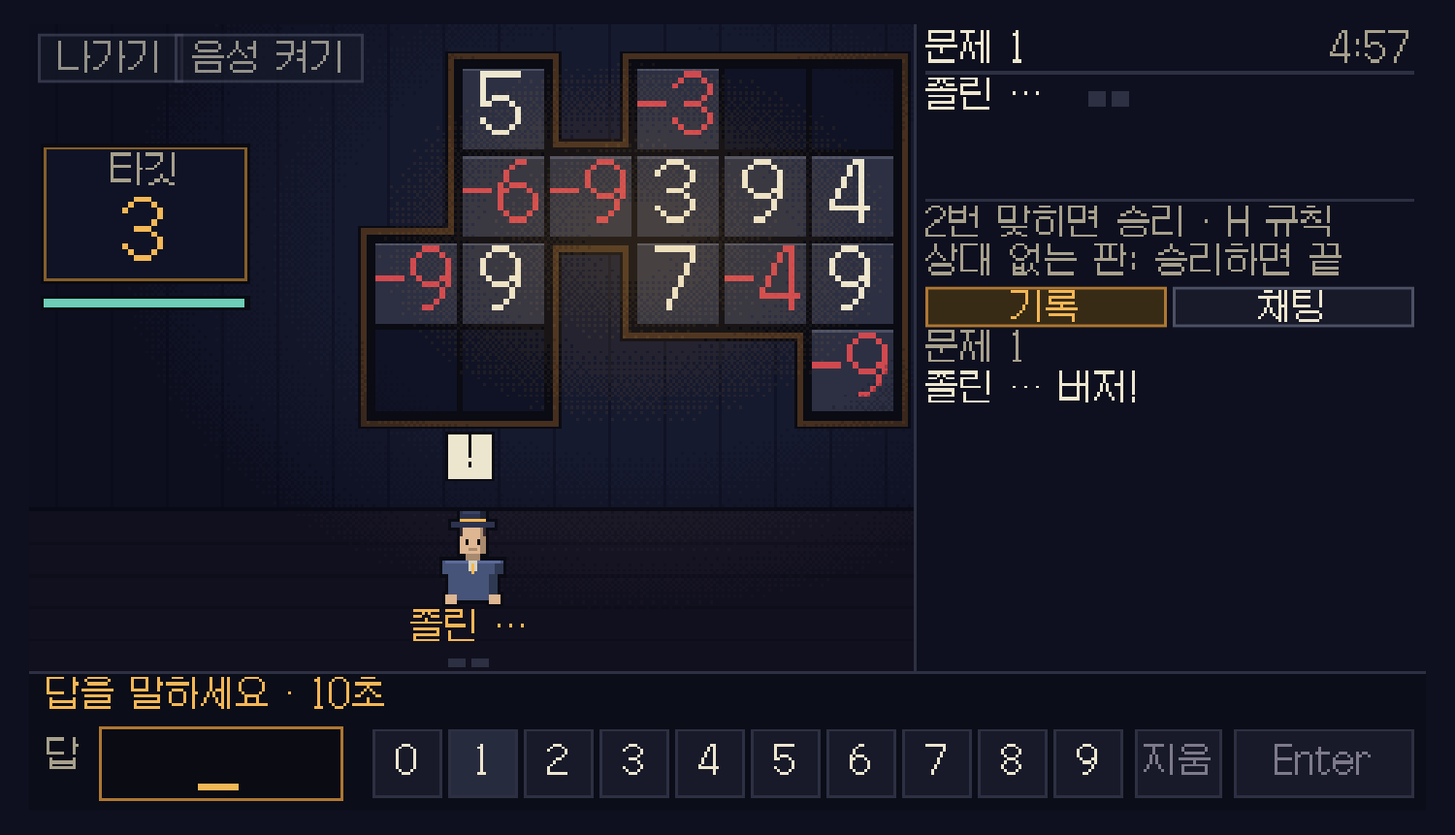
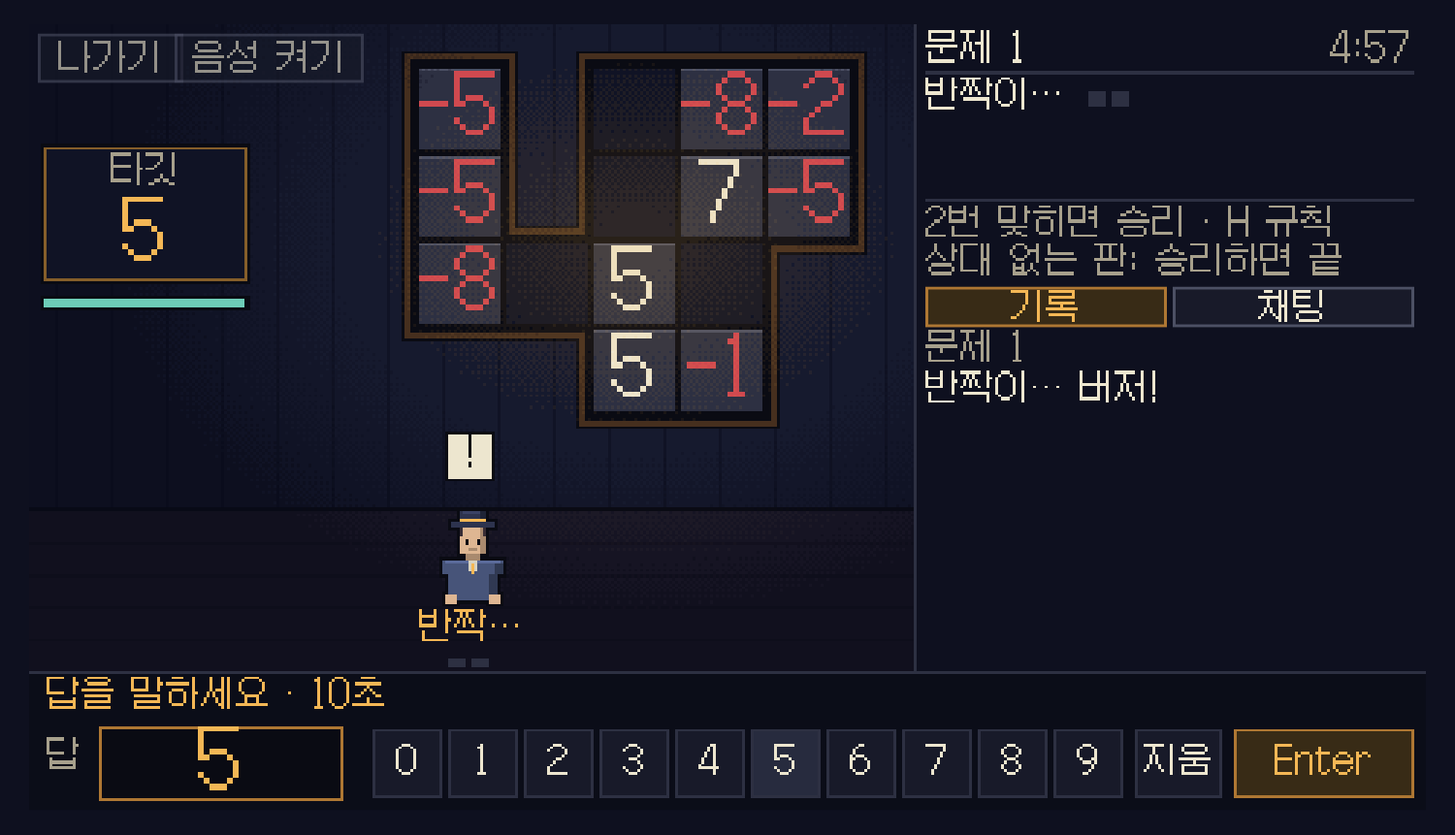
fix: what a review of the holds found: the pad's first figure, results under the rules sheet, a stale line, an early press that cannot be chosen
A read of e2bb37e and ca9edd7 found no hold that locks a player out, and
these, which are fixed:

- 네모 세기: the pad's hold of 0.35 s covered the whole pad, so a player
  who buzzed with the answer ready lost its first figure without a sound.
  The hold is now only on the place where the buzzer was ("0" and "1").
- Six games: a game that ended under the rules sheet had spent its 0.8 s
  by the time the sheet was closed, and the second press of the double
  press that closed it landed on the results' buttons. The 0.8 s is
  counted from the closing of the sheet (러시안 룰렛 did so already).
- 미스터리 거래소: the line "앞의 것을 보내는 중…" stayed up to 0.8 s
  after a refusal, a new round or the end. It is taken down with the move.
- 러시안 룰렛: a move pressed too soon is kept only where it can be
  chosen: one there are no credits for is told so at once, and none is
  kept (nor lit) while a swap is on its way up.

Left as they are: the sum over a stand of 무거운 13 takes no press for a
chip of one colour and says nothing; the swap takes no Enter in its first
0.8 s and says nothing.

Checked: type check; on the local server, alone in 네모 세기: the
buzzer's right edge pressed twice and "5" pressed 0.06 s later typed 5
and nothing else (ego-browser, Chromium, mouse events; the evidence
picture is replaced). Also added: the deployed check of ca9edd7 (큐브
세기 alone to the clock's end: presses within 0.3 s of the results did
nothing, one a second later went to the waiting room). Not looked at on
[…]

diff --git a/src/client/games/count-rectangles/screen.ts b/src/client/games/count-rectangles/screen.ts
@@ -454,6 +454,8 @@ export function createRectScreen(canvas: HTMLCanvasElement, handlers: RectHandle
     if (help && (pressed("Escape", "Enter") || clicks.length > 0)) help = false;
     // the page's own buttons lie over the frame: they give way while the sheet is up
     if (help !== was) handlers.covered(help);
+    // (results that were under the sheet are up from now: their buttons wait as they do when a game ends in sight)
+    if (was && !help && latest.view.phase === "ended") endedAt = time;
     if (help || was) return;
     const view = latest.view;
     if (view.phase === "ended") {
@@ -536,11 +538,14 @@ export function createRectScreen(canvas: HTMLCanvasElement, handlers: RectHandle
     const most = `${latest.rules.maxSaid}`.length;
     // the pad is on screen only once the answer is this player's; its buttons count as the keys they stand for
     const pad: string[] = [];
-    // (not in its first moment: the pad comes up where the buzzer was, and a second press of the buzzer is no figure)
-    if (toAnswer && floorAt !== null && time - floorAt >= PAD_HOLD) {
-      for (let digit = 0; digit <= 9; digit++) if (clicked(digitRect(digit), PAD_REACH)) pad.push(`Digit${digit}`);
-      if (clicked(ERASE_RECT, PAD_REACH)) pad.push("Backspace");
-      if (clicked(SAY_RECT, PAD_REACH)) pad.push("Enter");
+    if (toAnswer) {
+      // In its first moment a press where the buzzer was is the buzzer's second press, not a figure (`PAD_HOLD`).
+      // The rest of the pad takes a press at once: someone who buzzed with the answer ready types it straight away.
+      const early = floorAt === null || time - floorAt < PAD_HOLD;
+      const onPad = (rect: readonly [number, number, number, number]): boolean => clicks.some((p) => hits(p, rect, PAD_REACH) && !(early && hits(p, BUZZ_RECT)));
+      for (let digit = 0; digit <= 9; digit++) if (onPad(digitRect(digit))) pad.push(`Digit${digit}`);
+      if (onPad(ERASE_RECT)) pad.push("Backspace");
+      if (onPad(SAY_RECT)) pad.push("Enter");
     }
     const result = typeAnswer(typed, [...typing, ...pad], most);
     if (result.typed.length > typed.length || (result.typed !== typed && result.typed.length === typed.length)) sfx.move();

diff --git a/src/client/games/mystery-stock-market/screen.ts b/src/client/games/mystery-stock-market/screen.ts
@@ -379,12 +379,14 @@ export function createMarketScreen(canvas: HTMLCanvasElement, handlers: MarketHa
       endedAt = time;
       mode = "trade";
       sent = null;
+      hurriedAt = null;
     }
     if (before !== null && !fresh) {
       if (before.view.round !== message.view.round) {
         // what was being asked belonged to the round that is over
         mode = "trade";
         sent = null;
+        hurriedAt = null;
       } else if (sent !== null && took(sent, before, message)) {
         // one drawn ahead was said as it was made
         if (ahead === null) sayDone(sent, message.rules);
@@ -483,6 +485,8 @@ export function createMarketScreen(canvas: HTMLCanvasElement, handlers: MarketHa
     if (help && (pressed("Escape", "Enter") || clicks.length > 0)) help = false;
     // the page's own buttons lie over the frame: they give way while the sheet is up
     if (help !== was) handlers.covered(help);
+    // (results that were under the sheet are up from now: their buttons wait as they do when a game ends in sight)
+    if (was && !help && latest.view.phase === "ended") endedAt = time;
     if (help || was) return;
 
     const view = latest.view;
@@ -1136,6 +1140,7 @@ export function createMarketScreen(canvas: HTMLCanvasElement, handlers: MarketHa
     refused(reason: string): void {
       starting = false;
       sent = null;
+      hurriedAt = null;
       takeBack();
       mode = "trade";
       say(WORDS.refused[reason] ?? WORDS.refusedOther);

diff --git a/src/client/game/table.ts b/src/client/game/table.ts
@@ -818,9 +818,17 @@ export function createTable(canvas: HTMLCanvasElement, handlers: TableHandlers):
       sel = null;
       // The turn is mine by the room's word, and the move before it is still being shown: a move pressed now is not lost.
       // It is answered at the press (its button lights, with the sound of a choice), so that it is not pressed again.
-      if (picked !== null && waits() && !pending && !offline) {
-        early = { act: picked, at: time, moves: truth?.view.history.length ?? -1 };
-        sfx.pick();
+      // (Only a move that can be chosen when the screen has caught up: not over a swap that is on its way up, and
+      // one there are no credits for is told so now, not a second later.)
+      if (picked !== null && waits() && !pending && !offline && truth !== null && truth.view.phase === "turn") {
+        if ((truth.view.credits ?? 0) < costs(truth.rules)[picked]) {
+          early = null;
+          say(WORDS.refused["not-enough-credits"]);
+          sfx.deny();
+        } else {
+          early = { act: picked, at: time, moves: truth.view.history.length };
+          sfx.pick();
+        }
       } else if (!waits()) early = null;
       return;
     }

diff --git a/src/client/games/lay-the-grass/screen.ts b/src/client/games/lay-the-grass/screen.ts
@@ -554,6 +554,8 @@ export function createGrassScreen(canvas: HTMLCanvasElement, handlers: GrassHand
     else if (sheet !== "none" && (pressed("Escape", "Enter") || clicks.length > 0)) sheet = "none";
     // the page's own buttons lie over the frame: they give way while a sheet is up
     if ((sheet !== "none") !== (was !== "none")) handlers.covered(sheet !== "none");
+    // (results that were under the sheet are up from now: their buttons wait as they do when a game ends in sight)
+    if (was !== "none" && sheet === "none" && latest.view.phase === "ended") endedAt = time;
     if (sheet !== "none" || was !== "none") return;
 
     const view = latest.view;

diff --git a/src/client/games/count-cubes/screen.ts b/src/client/games/count-cubes/screen.ts
@@ -305,6 +305,8 @@ export function createCubesScreen(canvas: HTMLCanvasElement, handlers: CubesHand
     if (help && (pressed("Escape", "Enter") || clicks.length > 0)) help = false;
     // the page's own buttons lie over the frame: they give way while the sheet is up
     if (help !== was) handlers.covered(help);
+    // (results that were under the sheet are up from now: their buttons wait as they do when a game ends in sight)
+    if (was && !help && latest.view.phase === "ended") endedAt = time;
     if (help || was) return;
 
     // Turning the solid is looking, not playing: it is there for someone watching and after the game too.

diff --git a/src/client/games/memory-poker/screen.ts b/src/client/games/memory-poker/screen.ts
@@ -328,6 +328,8 @@ export function createPokerScreen(canvas: HTMLCanvasElement, handlers: PokerHand
     if (help && (pressed("Escape", "Enter") || clicks.length > 0)) help = false;
     // the page's own buttons lie over the frame: they give way while the sheet is up
     if (help !== was) handlers.covered(help);
+    // (results that were under the sheet are up from now: their buttons wait as they do when a game ends in sight)
+    if (was && !help && latest.view.phase === "ended") endedAt = time;
     if (help || was) return;
 
     const view = latest.view;

diff --git a/src/client/games/under-thirteen/screen.ts b/src/client/games/under-thirteen/screen.ts
@@ -464,6 +464,8 @@ export function createUnderScreen(canvas: HTMLCanvasElement, handlers: UnderHand
     if (help && (pressed("Escape", "Enter") || clicks.length > 0)) help = false;
     // the page's own buttons lie over the frame: they give way while the sheet is up
     if (help !== was) handlers.covered(help);
+    // (results that were under the sheet are up from now: their buttons wait as they do when a game ends in sight)
+    if (was && !help && latest.view.phase === "ended") endedAt = time;
     if (help || was) return;
 
     const view = latest.view;

diff --git a/design/game-brief.md b/design/game-brief.md
@@ -99,7 +99,7 @@
 - [x] 러시안 룰렛에서 너무 일찍 누른 수 (2026-11-14, 게임 중 「눌렀는데 답이 없는 곳」 조사): 방은 앞사람의 수를 알리는 그 말로 다음 차례도 알리고, 페이지는 그 말에 차례를 부른다(소리·진동). 화면은 앞사람의 수를 0.3~1초쯤 보여 주는 중이라 그사이 누른 1~5(와 버튼)는 아무 답 없이 버려졌다. 이제 방의 말로 내 차례인데 화면이 아직 따라오지 못한 동안 누른 수는 1.5초까지 들고 있다가, 화면이 따라온 첫 순간에 고른 것으로 친다(고르기만 한다: 확정은 전처럼 Enter). 조작을 얻어 맞바꿔야 하는 차례에는 쓰지 않고, 1.5초보다 오래된 누름은 버린다(봇 다섯의 수를 한꺼번에 보여 줄 때처럼 길게 밀린 화면에서 한참 전의 누름이 튀어나오지 않게) *(guessed: 1.5초는 만든 쪽이 고름, 가장 긴 수 보여 주기 1.05초와 자리 뽑기 1.2초보다 조금 김)* 검토 뒤 고침(같은 날): 들고 있는 동안 그 버튼에 불이 들어오고 고르는 소리가 난다(답이 없어 다시 누르지 않게). 그렇게 고른 수는 손가락으로 불 켜진 버튼을 다시 눌러 확정하기까지 1초를 기다린다(보통은 0.35초: 일찍 누른 사람이 답이 없는 줄 알고 한 번 더 누른 것이 수를 내 버리지 않게). 들고 있던 누름은 그때까지 방이 알린 수의 개수가 같을 때만 쓴다(탭을 가렸다 돌아오면 화면의 시계가 멈춰 있어, 한 바퀴 돈 뒤의 차례에 옛 누름이 튀어나올 수 있었다).
 - [x] 무거운 13에서 색이 정해진 칩일 때 받침대 누르기 (2026-11-14, 같은 조사): 레인보우 칩이면 받침대(와 1~3)를 눌러 놓는데, 색이 정해진 칩이면 받침대는 화면에서 가장 큰 것인데도 눌러서 아무 답이 없었고 「놓기」 버튼과 Enter만 먹었다. 이제 그 칩의 받침대(나 그 번호)를 누르면 「놓기」와 같이 놓고, 다른 받침대나 번호를 누르면 「이 칩의 바위는 초록 받침대에만 놓을 수 있습니다」와 거절음이 난다 *(guessed: 제 받침대를 누르면 바로 놓는 것은 레인보우 칩과 같게 한 것으로, 무너지는 자리여도 묻지 않는다(바의 붉은 줄이 미리 말함); 영어 "With this chip the rock goes on Green only"는 평이한 번역)* 검토 뒤 고침(같은 날): 색이 정해진 칩은 받침대의 합계 숫자 아래(위에서 26픽셀 밑)부터만 눌러 놓는다. 합계 숫자는 「나가기」·음성 버튼 바로 아래 4픽셀이라, 그 버튼을 누르려던 손가락이 바위를 놓지 않게 했다. 레인보우 칩의 받침대 누르기는 전과 같다.
 - [x] 미스터리 거래소에서 앞의 것이 가는 중에 누른 것 (2026-11-14, 같은 조사): 주문이 방에 갔다 오는 동안(배포본에서 한국 기준 0.15~0.9초) 누른 것은 말없이 버려졌다: 「매수」를 빠르게 두 번 누르면 한 번만 사졌고, 그사이 연 물음(시크릿·피스·마침)에 답하면 답은 가지 않은 채 물음만 사라졌다. 이제 그런 누름에는 「앞의 것을 보내는 중입니다 · 잠시 뒤 다시 누르세요」와 거절음이 나고, 답이 가지 않은 물음은 그대로 떠 있어 다시 답할 수 있다. 누름을 쌓아 두었다가 이어서 보내지는 않는다(돈이 오가는 주문이라, 본 값과 다른 값에 두 번째가 나가지 않게) *(guessed: 문장은 만든 쪽이 고름; 영어 "Still sending the last one · press again in a moment"는 평이한 번역)* 검토 뒤 고침(같은 날): 그 문장은 잠깐 뜨는 알림이 아니라 바의 줄로, 앞의 것이 돌아올 때까지(짧으면 0.8초까지) 뜨고 나면 「○○ 1주 매수」 같은 앞의 알림이 다시 보인다(전에는 2.5초 동안 남아 산 것을 가렸다). 가는 중에는 물음(시크릿·피스·마침)도 열지 않는다(바가 그리지 않는 물음이 보이지 않게 답해지던 것). 물음의 버튼은 물음이 뜬 지 0.35초 뒤부터 누를 수 있다: 「피스」 자리가 「현금으로」, 「마침」 자리가 「취소」라서 두 번 누르면 둘째가 답이 되던 것을 막음(키는 바로 받음).
-- [x] 두 번 누름의 둘째가 다른 것에 닿던 곳 (2026-11-14, 일곱 화면을 읽은 조사): 결과 화면의 「새 판」·「대기실로」는 판이 끝나는 순간 게임의 버튼(큐브 세기의 「입력」·「지움」·「0」, 잔디 깔기의 「놓기」, 네모 세기의 「말하기」·「지움」)이 있던 자리에 뜨고, 키만 1.5초를 기다렸지 누름은 바로 받았다. 혼자 하는 큐브 세기에서 「입력」을 두 번 누르면 둘째가 결과를 치우거나(대기실로) 새 판을 시작했다. 이제 두 버튼은 결과가 뜬 지 0.8초 뒤부터 눌린다(일곱 게임 모두, `RESULTS_PRESS_HOLD`; Esc는 전처럼 바로). 같이 고친 것: 「나가기」의 둘째 누름은 첫 누름 0.35초 뒤부터 센다(두 번 누름 한 번에 방을 나가던 것); 러시안 룰렛의 맞바꾸기는 뜬 지 0.8초 뒤부터 확정된다(크레딧을 넣은 「확인」 자리에 맞바꾸기의 「확인」이 저절로 뜸); 네모 세기의 숫자판은 답할 차례가 된 지 0.35초 뒤부터 눌린다(버저 오른쪽 끝이 「0」·「1」 자리). 그대로 둔 것: 가리키고 한 번 더 눌러 정하는 곳들(무거운 13의 자리, 잔디 깔기의 카드·타일·칸, 네모 세기의 셋째 선택)은 둘째 누름이 방금 가리킨 바로 그것을 정하므로 둠 *(guessed: 0.8초·0.35초는 만든 쪽이 고름; 결과 버튼이 눌리지 않는 0.8초 동안 따로 흐리게 그리지는 않음)*
+- [x] 두 번 누름의 둘째가 다른 것에 닿던 곳 (2026-11-14, 일곱 화면을 읽은 조사): 결과 화면의 「새 판」·「대기실로」는 판이 끝나는 순간 게임의 버튼(큐브 세기의 「입력」·「지움」·「0」, 잔디 깔기의 「놓기」, 네모 세기의 「말하기」·「지움」)이 있던 자리에 뜨고, 키만 1.5초를 기다렸지 누름은 바로 받았다. 혼자 하는 큐브 세기에서 「입력」을 두 번 누르면 둘째가 결과를 치우거나(대기실로) 새 판을 시작했다. 이제 두 버튼은 결과가 뜬 지 0.8초 뒤부터 눌린다(일곱 게임 모두, `RESULTS_PRESS_HOLD`; Esc는 전처럼 바로). 같이 고친 것: 「나가기」의 둘째 누름은 첫 누름 0.35초 뒤부터 센다(두 번 누름 한 번에 방을 나가던 것); 러시안 룰렛의 맞바꾸기는 뜬 지 0.8초 뒤부터 확정된다(크레딧을 넣은 「확인」 자리에 맞바꾸기의 「확인」이 저절로 뜸); 네모 세기의 숫자판은 답할 차례가 된 지 0.35초 뒤부터 눌린다(버저 오른쪽 끝이 「0」·「1」 자리). 그대로 둔 것: 가리키고 한 번 더 눌러 정하는 곳들(무거운 13의 자리, 잔디 깔기의 카드·타일·칸, 네모 세기의 셋째 선택)은 둘째 누름이 방금 가리킨 바로 그것을 정하므로 둠 *(guessed: 0.8초·0.35초는 만든 쪽이 고름; 결과 버튼이 눌리지 않는 0.8초 동안 따로 흐리게 그리지는 않음)* 검토 뒤 고침(같은 날): 네모 세기 숫자판의 대기는 버저가 있던 자리(「0」·「1」 쪽)에만 건다(답을 준비하고 버저를 누른 사람이 곧바로 누른 첫 숫자가 버려지지 않게). 규칙 창 아래에서 판이 끝났으면 결과 버튼의 0.8초는 창을 닫은 때부터 센다(여섯 게임; 러시안 룰렛은 처음부터 그랬다). 미스터리 거래소의 「앞의 것을 보내는 중」 줄은 거절·라운드 바뀜·판 끝에 바로 내린다. 러시안 룰렛에서 일찍 누른 수는 고를 수 있는 것만 든다: 크레딧이 모자라면 그 자리에서 말하고, 맞바꾸기가 뜨는 중이면 들지 않는다.
 - [x] 다음 게임 투표 (2026-11-14): 대기실의 「게임」 버튼이 방장이 아닌 사람에게도 보인다. 방장이 아닌 사람이 누르면 「다음에 하고 싶은 게임」 창이 열려, 지금 게임이 아닌 게임 하나를 고른다(다시 누르면 거둠, 다른 게임을 누르면 옮김). 고른 사람 수는 게임 이름 옆에 붙고(「무거운 13 · 2」), 버튼에도 다른 게임을 고른 사람 수가 붙는다(방장에게는 「게임 2」, 다른 사람에게는 「다음 게임 2」): 모두에게 보인다. 방장의 「게임 바꾸기」 창에도 같은 숫자가 붙고 제목이 「게임 바꾸기 · 숫자는 고른 사람 수」가 된다. 숫자는 아무것도 정하지 않는다: 바꾸는 것은 전처럼 방장이고, 방장이 게임을 바꾸면 물음에 답한 것이라 모두의 고름이 지워진다. 「한 판 더」가 같은 게임을 또 하자는 말이라면 이것은 다른 게임을 하자는 말이다; 그 전에는 채팅으로 말할 수밖에 없었다. 방장은 고르지 못한다(바꾸면 된다). 지금 인원이 들어가지 않는 게임은 고르지 못한다. 방은 게임마다 몇 명인지만 전하고 누구인지는 전하지 않으며(본인에게는 본인 것만), 고른 것은 그 사람의 자리와 함께 방에 저장한다(「준비」와 같은 방식, `setWish` of `src/shared/lobby.ts`): 어느 탭에서 고르든 거두든 그 사람의 것이고, 연결이 끊겼다 붙거나 페이지를 다시 불러와도(배포 때마다 대기실이 그렇게 된다) 남으며, 거두거나 방장이 게임을 바꾸거나 그 사람이 방을 나가면 지워지고, 방이 지워질 때 함께 지워진다. 처음(같은 날 오전)에는 저장하지 않고 말한 연결에만 들려 두고 연결이 바뀌면 페이지가 다시 말하게 했는데, 두 번의 검토에서 연결이 끊겼다 붙는 경우마다(잠깐 방장이 됨, 둘째 탭, 새로 고침, 배포, 거둔 말이 되살아남) 말이 사라지거나 되살아나는 결함이 나와 이 방식으로 바꿨다; 페이지가 기억하고 다시 말하던 것은 모두 걷어냈다. 게임 중에도 받고 전한다(다음 판을 위한 것이다; 화면에는 대기실에서 보이고, 결과 화면에서는 방장에게만 채팅의 한 줄로 보인다: 고르는 시트는 대기실에만 있다). 연결이 끊겨 있는 사람의 것은 돌아올 때까지 세지 않는다. 방장의 것도 세지 않는다: 고른 뒤에 방장이 된 사람의 것은 방장인 동안 세지 않다가 방장을 넘기면 다시 센다. 누가 더 들어와서 그 게임에 자리가 모자라게 되면(여섯 자리인 러시안 룰렛을 바랐는데 일곱째가 들어옴) 그 말은 세지 않고, 그 사람이 나가 자리가 다시 맞으면 다시 센다(세지 않는 동안에는 시트에서 그 게임이 눌리지 않은 채 잠겨 있어 거둘 수 없다). 판이 끝난 결과 화면에서는 방장이 거기서 바로 「새 판」을 누르는데 숫자가 붙은 「게임」 버튼은 그 아래 대기실에 있으므로, 고른 사람이 있으면 방장의 채팅에 「2명이 다른 게임을 골랐습니다. 대기실의 「게임」에서 봅니다.」가 판마다 한 번 남고 채팅 탭에 안 읽은 표시가 붙는다 (2026-11-14에 더함). 개인정보 안내의 「방에 들어가면」에 한 문장을 더했고, 저장하게 바꾸면서 「저장하지 않습니다」를 「거두거나 방장이 게임을 바꿀 때까지 방에 남고, 방이 지워질 때 함께 지워집니다」로 고쳤다 (`src/shared/wish.ts`, `handleWish` of `src/server/room.ts`) *(guessed: 한 사람이 한 게임만 고르는 것, 숫자를 모두에게 보이는 것, 방장이 바꾸면 지우는 것, 버튼과 창의 문구는 만든 쪽이 고름; 사용자는 「추천하는작업내가멈추라할떄까지계쏙해」라고만 함. 영어 문구는 방송 영어판에서 찾지 않은 평이한 번역)*
 - [x] 규칙 읽는 중 표시 (2026-11-13): 대기실에서 누가 「규칙 보기」로 그 방 게임의 규칙을 펴 두고 있으면, 방장의 안내 줄(그림 아래 둘째 줄)이 「1명이 규칙을 읽는 중입니다. 잠시 뒤 시작하세요.」로 바뀐다(영어 「1 player is reading the rules. Give them a moment.」). 닫으면 원래 줄로 돌아간다. 시작을 막지는 않는다: 방장이 읽고 정한다. 모두 준비한 때에는 전처럼 「모두 준비했습니다」가 먼저다. 그 전에는 방장이 규칙을 읽는 사람과 그냥 기다리는 사람을 가릴 수 없어, 처음 온 사람이 읽다 말고 판에 들어가곤 했다. 방은 몇 명인지만 전하고 누구인지는 전하지 않으며(읽는 본인은 세지 않는다), 그 표시를 저장하지 않고 말한 연결에만 들고 있어 연결이 끊기면 같이 사라진다; 게임 중에는 전하지 않는다. 페이지는 규칙 창이 0.6초 그대로 있어야 방에 알린다(`settleSeconds`, `reading-config.json`): 열었다 바로 닫으면 알리지 않는다. 방 만들기 창에서 여는 규칙과 게임 중 H로 여는 규칙은 해당 없다. 방장이 아닌 사람의 화면과 방 그림에는 아무것도 더하지 않았다. 개인정보 안내의 「방에 들어가면」에 한 문장을 더했다 (`src/shared/reading.ts`, `handleReading` of `src/server/room.ts`) *(guessed: 방장 안내 줄에 두는 것, 인원수만 전하는 것, 시작을 막지 않는 것, 0.6초, 문구는 만든 쪽이 고름; 사용자는 「추천하는대로 진행」이라고만 함. 영어 문구는 방송 영어판에서 찾지 않은 평이한 번역)*
 - [x] 모두 준비되면 방장 부르기 (2026-11-13): 방장을 뺀 접속한 사람이 모두 준비해서(대기실의 「준비」든 결과 화면의 「한 판 더」든 같은 표시다) 방이 방장만 기다리게 되는 순간, 방장의 탭이 다른 탭 뒤에 있으면 탭 제목 맨 앞에 「● 모두 준비」(영어 「All ready」)가 붙고 부르는 소리가 나며, 폰이면 짧게 진동한다 (「내 차례」와 같은 방식: `src/shared/calling.ts`, 진동은 `turnBuzz`). 탭을 다시 보면 제목은 원래대로 돌아간다. 그 전에는 방장이 다른 탭에 가 있으면 1분 뒤 방이 「방장 확인」을 물을 때까지 아무것도 알 수 없었고, 10초 안에 답하지 못하면 방이 다음 사람에게 넘어갔다. 방이 방장만 기다리는지는 방이 쓰는 규칙(`waitingOnHost`)을 페이지가 받은 화면 정보로 똑같이 읽는다 (`waitsOnHost`, `src/shared/again.ts`): 방장 말고 접속한 사람이 있고, 탈락전에서 빠진 사람은 세지 않으며, 게임의 최소 인원이 차 있어야 한다. 누군가 준비를 껐다 켰다 해도 30초 안에는 다시 부르지 않는다 (`hostCallGapSeconds`, `sound-config.json`). 화면에는 아무것도 더하지 않았고 서버도 고치지 않았다 *(guessed: 대기실에서 모두 준비한 때도 부르는 것(사용자에게 추천한 것은 「한 판 더」를 다 눌렀을 때였으나 같은 표시라 가르지 않음), 제목의 문구, 「누가 들어옴」과 「게임 시작」 사이의 크기, 30초는 만든 쪽이 고름; 사용자는 추천 목록의 2번을 진행하라고만 함. 영어 「All ready」는 방송 영어판에서 찾지 않은 평이한 번역)*
